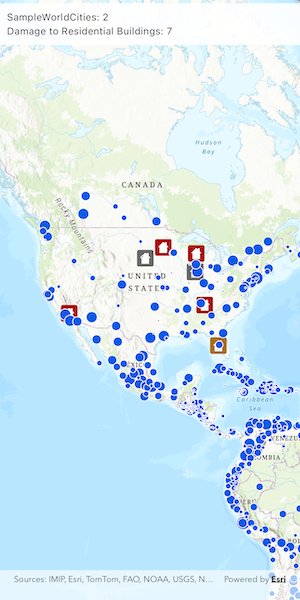
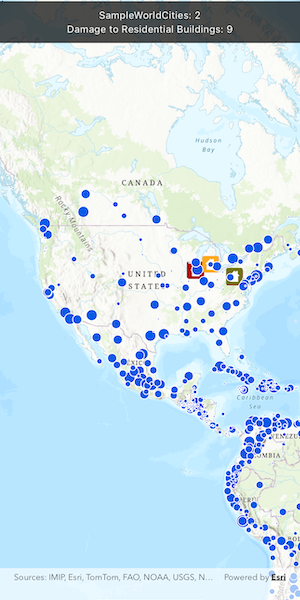
Assorted cosmetic fixes

diff --git a/lib/samples/identify_layer_features/identify_layer_features_sample.dart b/lib/samples/identify_layer_features/identify_layer_features_sample.dart
@@ -50,11 +50,21 @@ class _IdentifyLayerFeaturesSampleState
           // Add a banner to show the results of the identify operation.
           SafeArea(
             child: IgnorePointer(
-              child: Container(
-                color: Colors.white.withAlpha(230),
-                padding: const EdgeInsets.all(10),
-                child: Row(
-                  children: [Text(_message)],
+              child: Visibility(
+                visible: _message.isNotEmpty,
+                child: Container(
+                  padding: const EdgeInsets.all(10),
+                  color: Colors.black.withOpacity(0.7),
+                  child: Row(
+                    mainAxisAlignment: MainAxisAlignment.center,
+                    children: [
+                      Text(
+                        _message,
+                        textAlign: TextAlign.center,
+                        style: const TextStyle(color: Colors.white),
+                      ),
+                    ],
+                  ),
                 ),
               ),
             ),

diff --git a/lib/samples/create_planar_and_geodetic_buffers/README.md b/lib/samples/create_planar_and_geodetic_buffers/README.md
@@ -13,7 +13,7 @@ Creating buffers is a core concept in GIS proximity analysis that allows you to 
 1. Tap on the map.
 2. A planar and a geodetic buffer will be created at the tap location using the distance (miles) specified.
 3. Continue tapping to create additional buffers. Notice that buffers closer to the equator appear similar in size. As you move north or south from the equator, however, the geodetic polygons become much larger. Geodetic polygons are in fact a better representation of the true shape and size of the buffer.
-4. Tap Clear to remove all buffers and start again.
+4. Tap `Clear` to remove all buffers and start again.
 
 ## How it works
 
@@ -30,7 +30,7 @@ Creating buffers is a core concept in GIS proximity analysis that allows you to 
 
 ## Additional information
 
-Buffers can be generated as either planar (flat - coordinate space of the map's spatial reference) or geodetic (technique that considers the curved shape of the Earth's surface, which is generally a more accurate representation). In general, distortion in the map increases as you move away from the standard parallels of the spatial reference's projection. This map is in Web Mercator so areas near the equator are the most accurate. As you move the buffer location north or south from that line, you'll see a greater difference in the polygon size and shape. Planar operations are generally faster, but performance improvement may only be noticeable for large operations (buffering a great number or complex geometry).
+Buffers can be generated as either `planar` (flat - coordinate space of the map's spatial reference) or `geodetic` (technique that considers the curved shape of the Earth's surface, which is generally a more accurate representation). In general, distortion in the map increases as you move away from the standard parallels of the spatial reference's projection. This map is in Web Mercator so areas near the equator are the most accurate. As you move the buffer location north or south from that line, you'll see a greater difference in the polygon size and shape. Planar operations are generally faster, but performance improvement may only be noticeable for large operations (buffering a great number or complex geometry).
 
 For more information about using buffer analysis, see the topic How [Buffer (Analysis) works](https://pro.arcgis.com/en/pro-app/latest/tool-reference/analysis/how-buffer-analysis-works.htm) in the ArcGIS Pro documentation.
 

diff --git a/lib/samples/identify_layer_features/README.md b/lib/samples/identify_layer_features/README.md
@@ -6,7 +6,7 @@ Identify features in all layers in a map.
 
 ## Use case
 
-`identifyLayers` allows users to tap on a map, returning features at that location across multiple layers. Because some layer types have sublayers, the sample recursively counts results for sublayers within each layer.
+This sample allows users to tap on a map, returning features at that location across multiple layers. Because some layer types have sublayers, the sample recursively counts results for sublayers within each layer.
 
 ## How to use the sample
 
